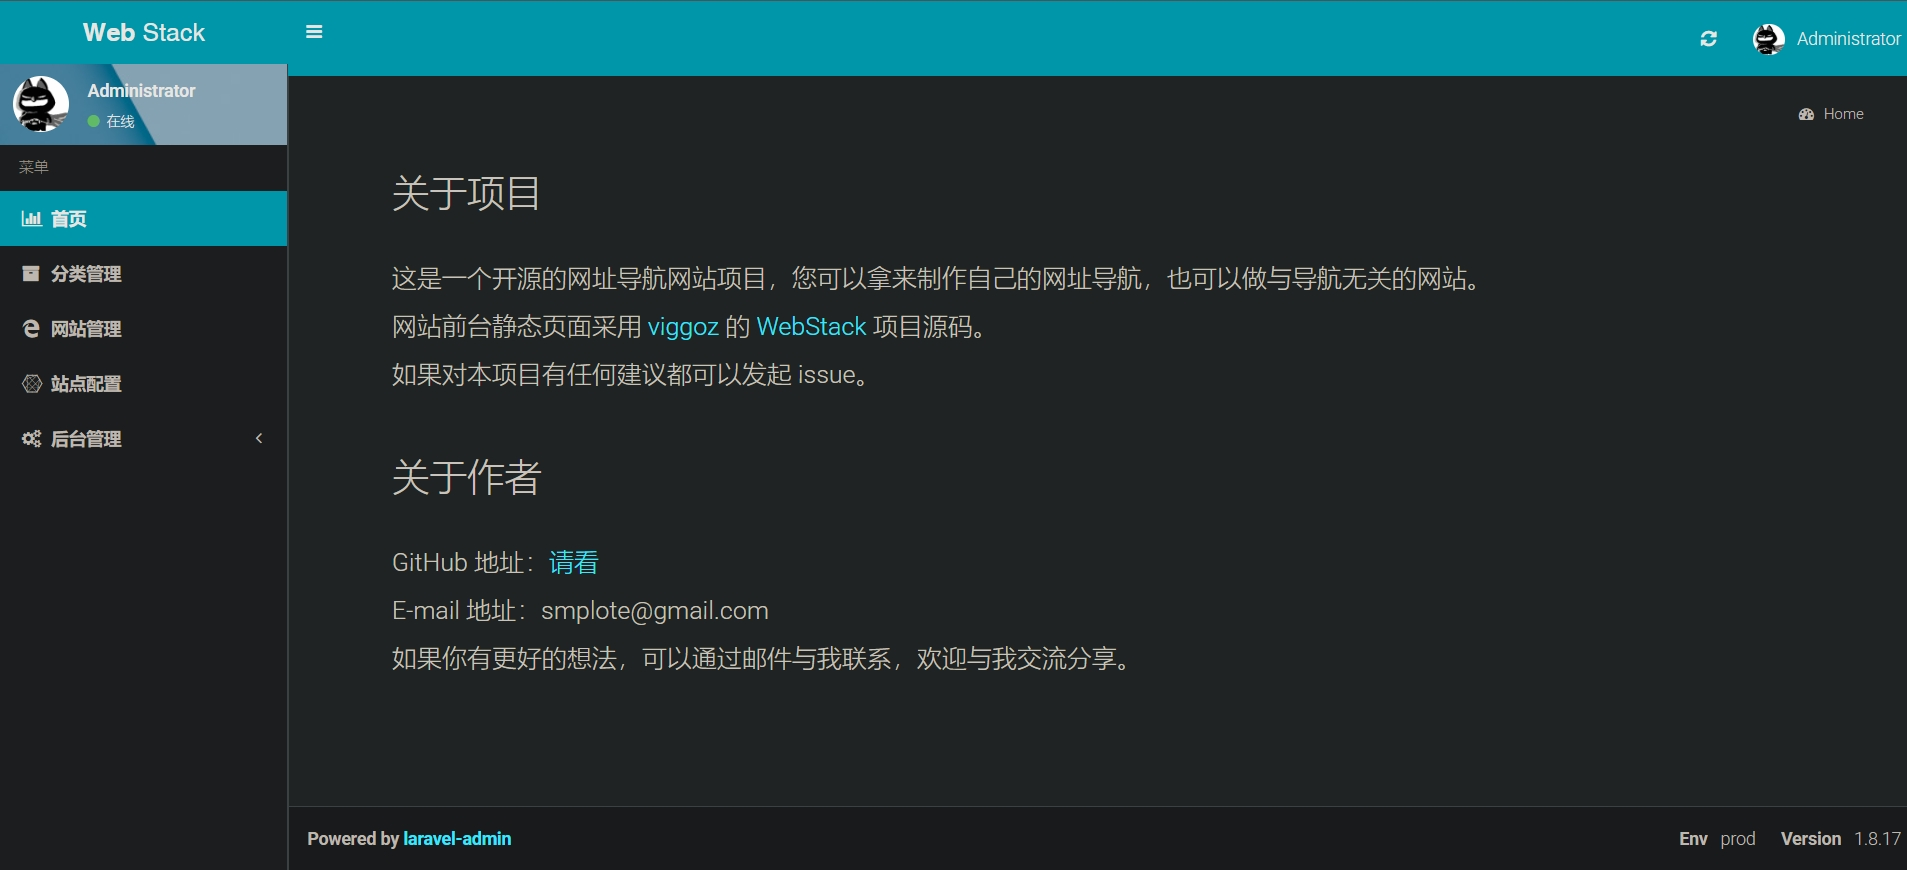
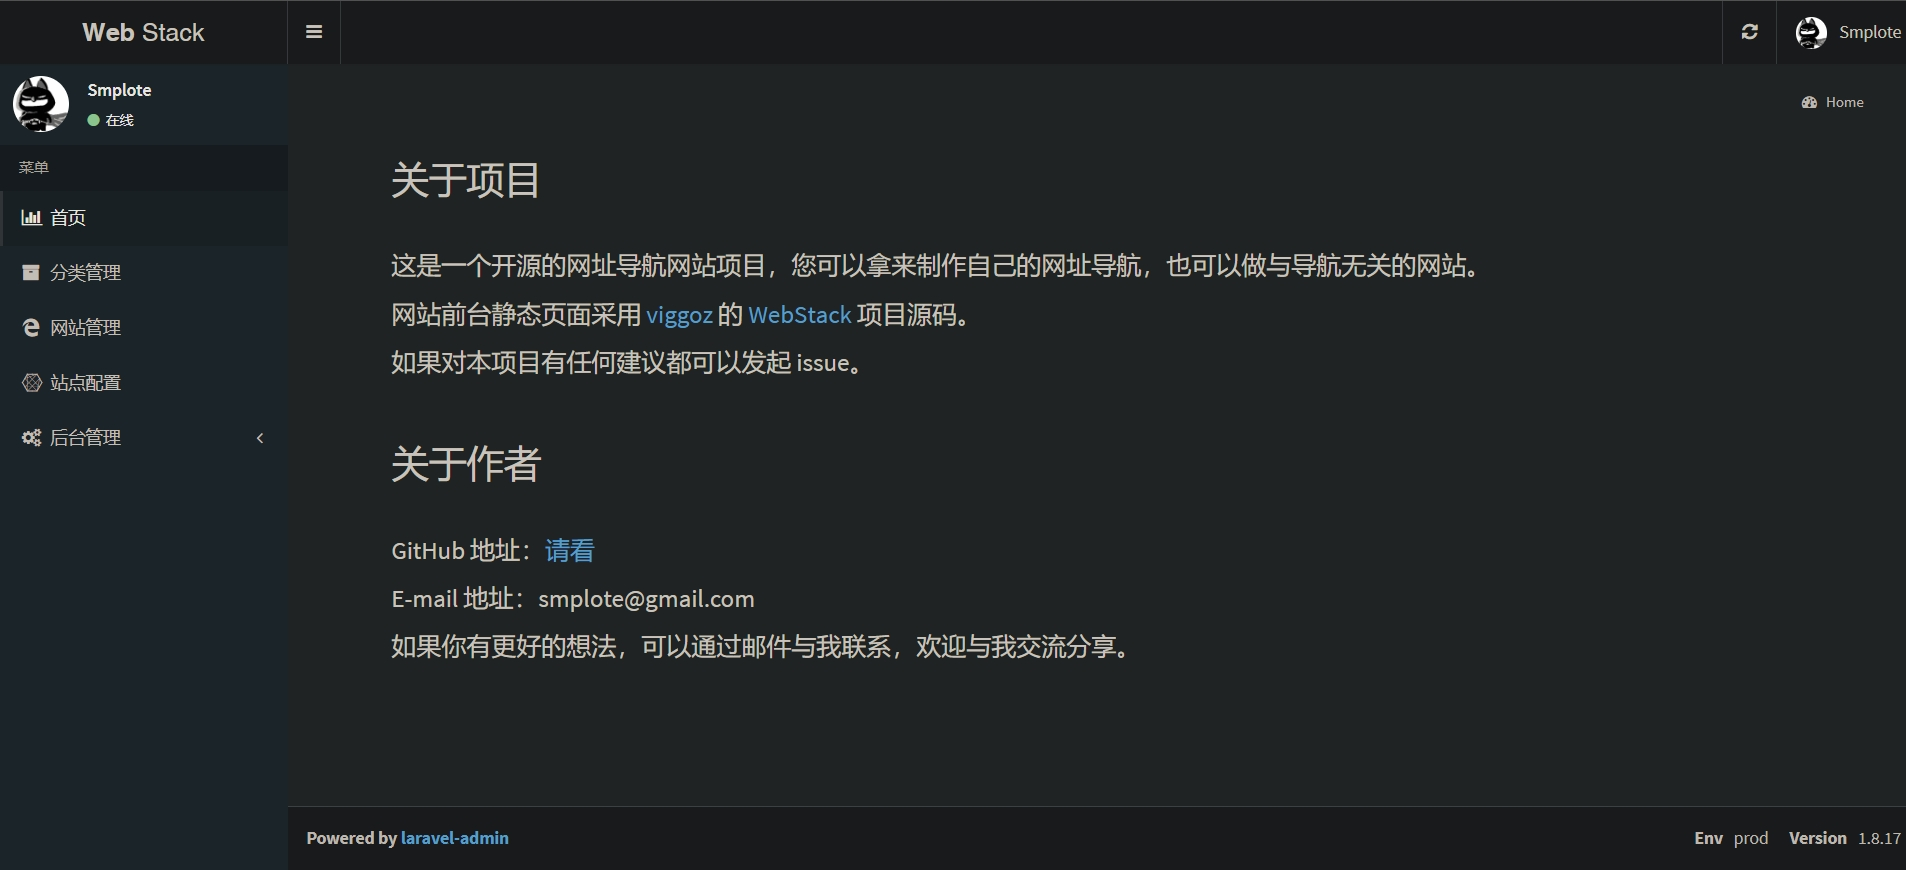
ui update

diff --git a/config/admin.php b/config/admin.php
@@ -231,7 +231,7 @@ return [
     |    "skin-red", "skin-red-light", "skin-black", "skin-black-light".
     |
     */
-    'skin' => 'skin-blue-light',
+    'skin' => 'skin-black',
 
     /*
     |--------------------------------------------------------------------------
@@ -323,7 +323,7 @@ return [
             'enable' => true,
         ],
         'material-ui' => [
-            'enable' => true
+            'enable' => false
         ]
     ],
 ];

diff --git a/README.md b/README.md
@@ -5,6 +5,7 @@
  - 解决 admin 后台反复重定向问题
  - https | http 访问配置化
  - 支持 nginx 反向代理 (重点改造)
+ - 全暗黑风格
 
 一个开源的网址导航网站项目，具备完整的前后台，您可以拿来制作自己的网址导航。
 
@@ -75,6 +76,8 @@ $ php artisan serve
 默认用户：admin
 
 默认密码：admin
+
+![登录](public/screen/05.png)
 
 ![主页](public/screen/02.png)
 
